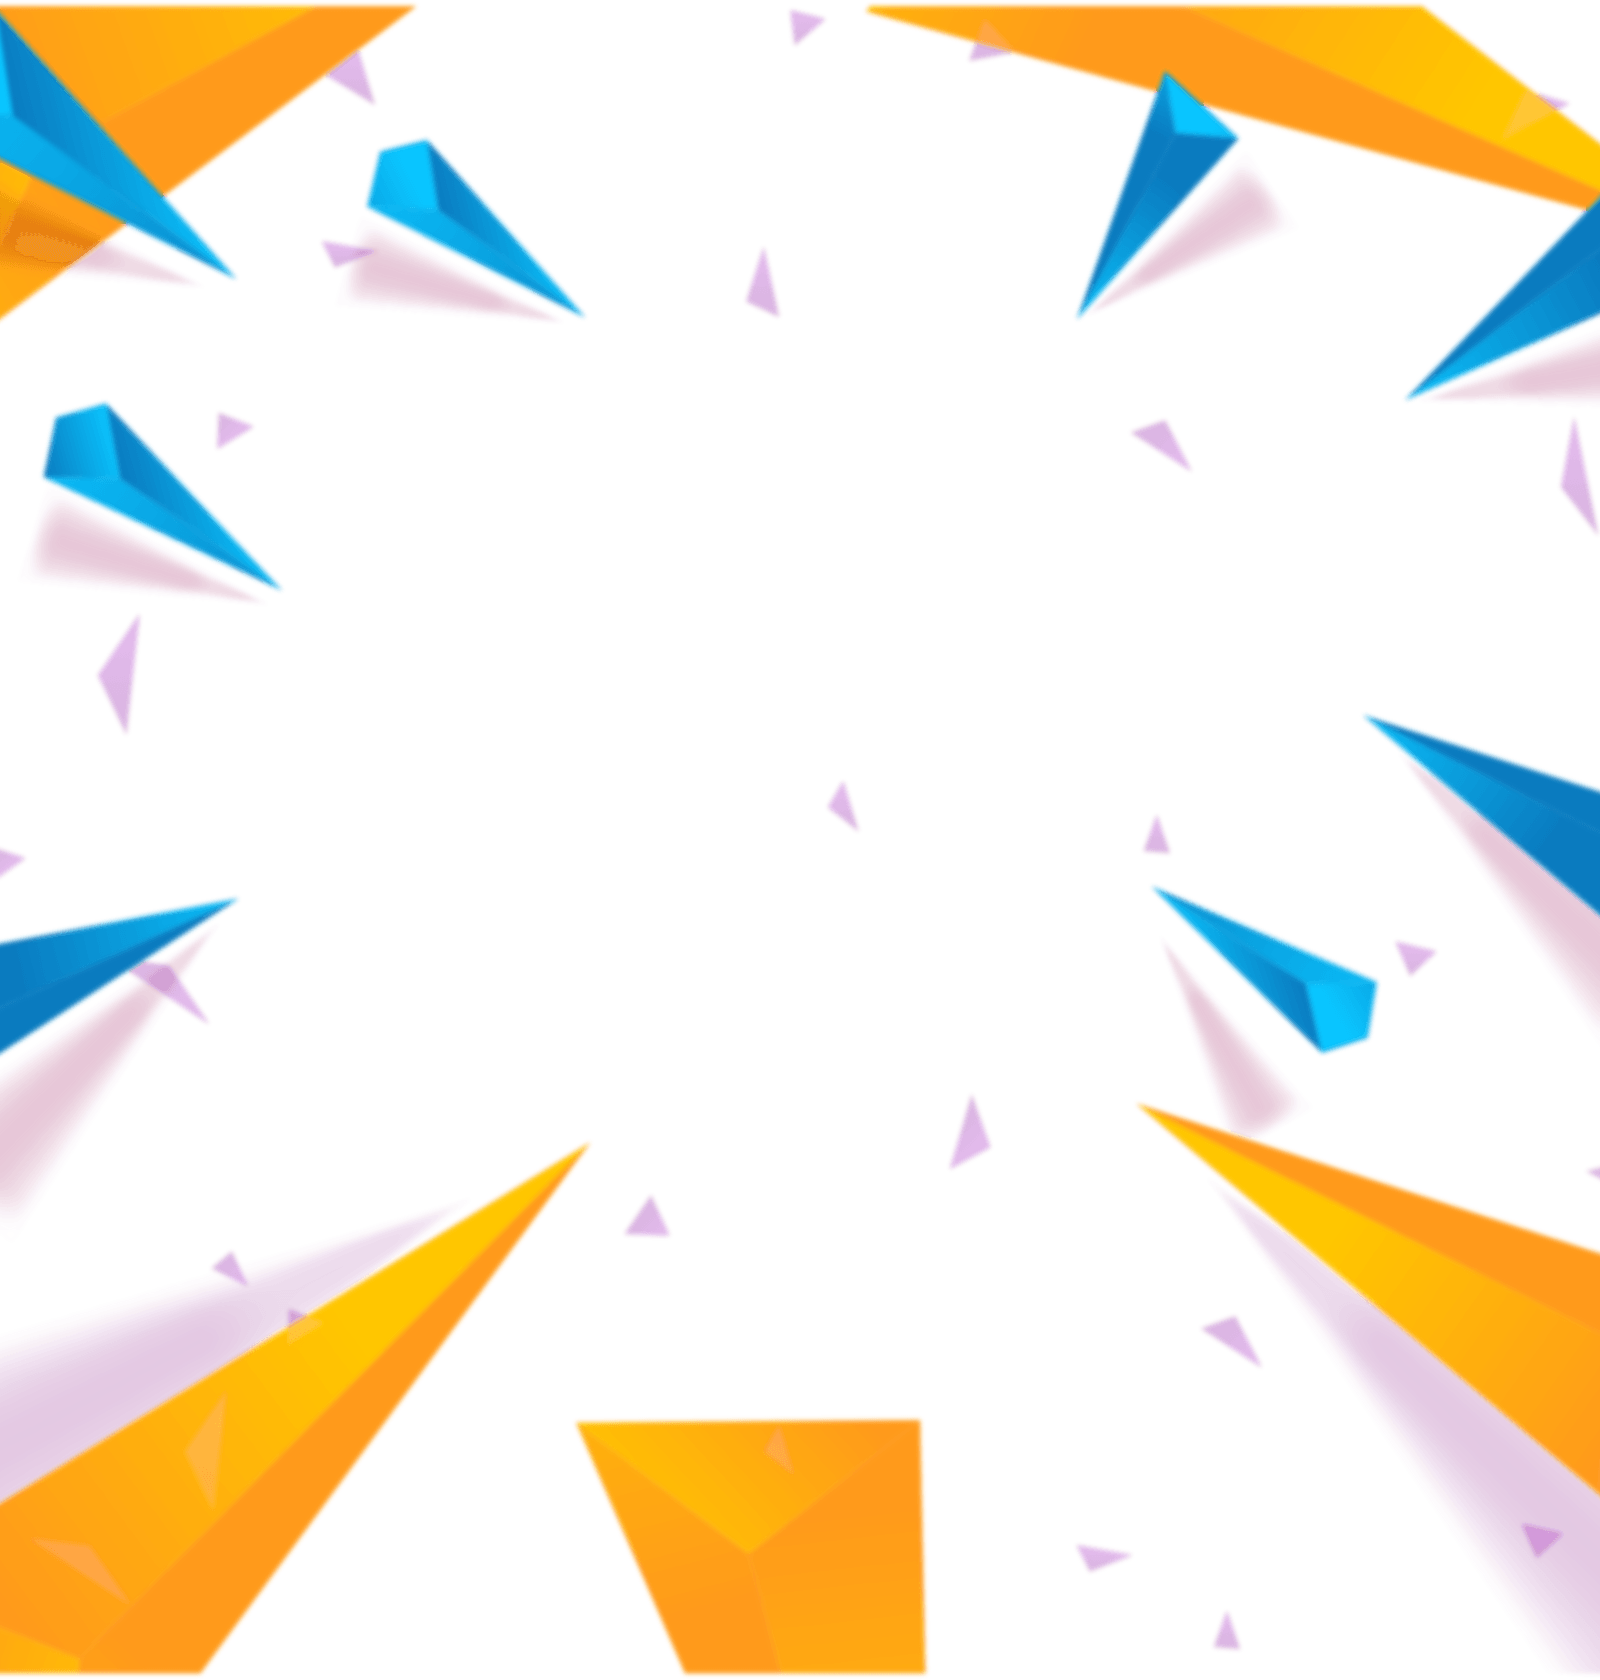
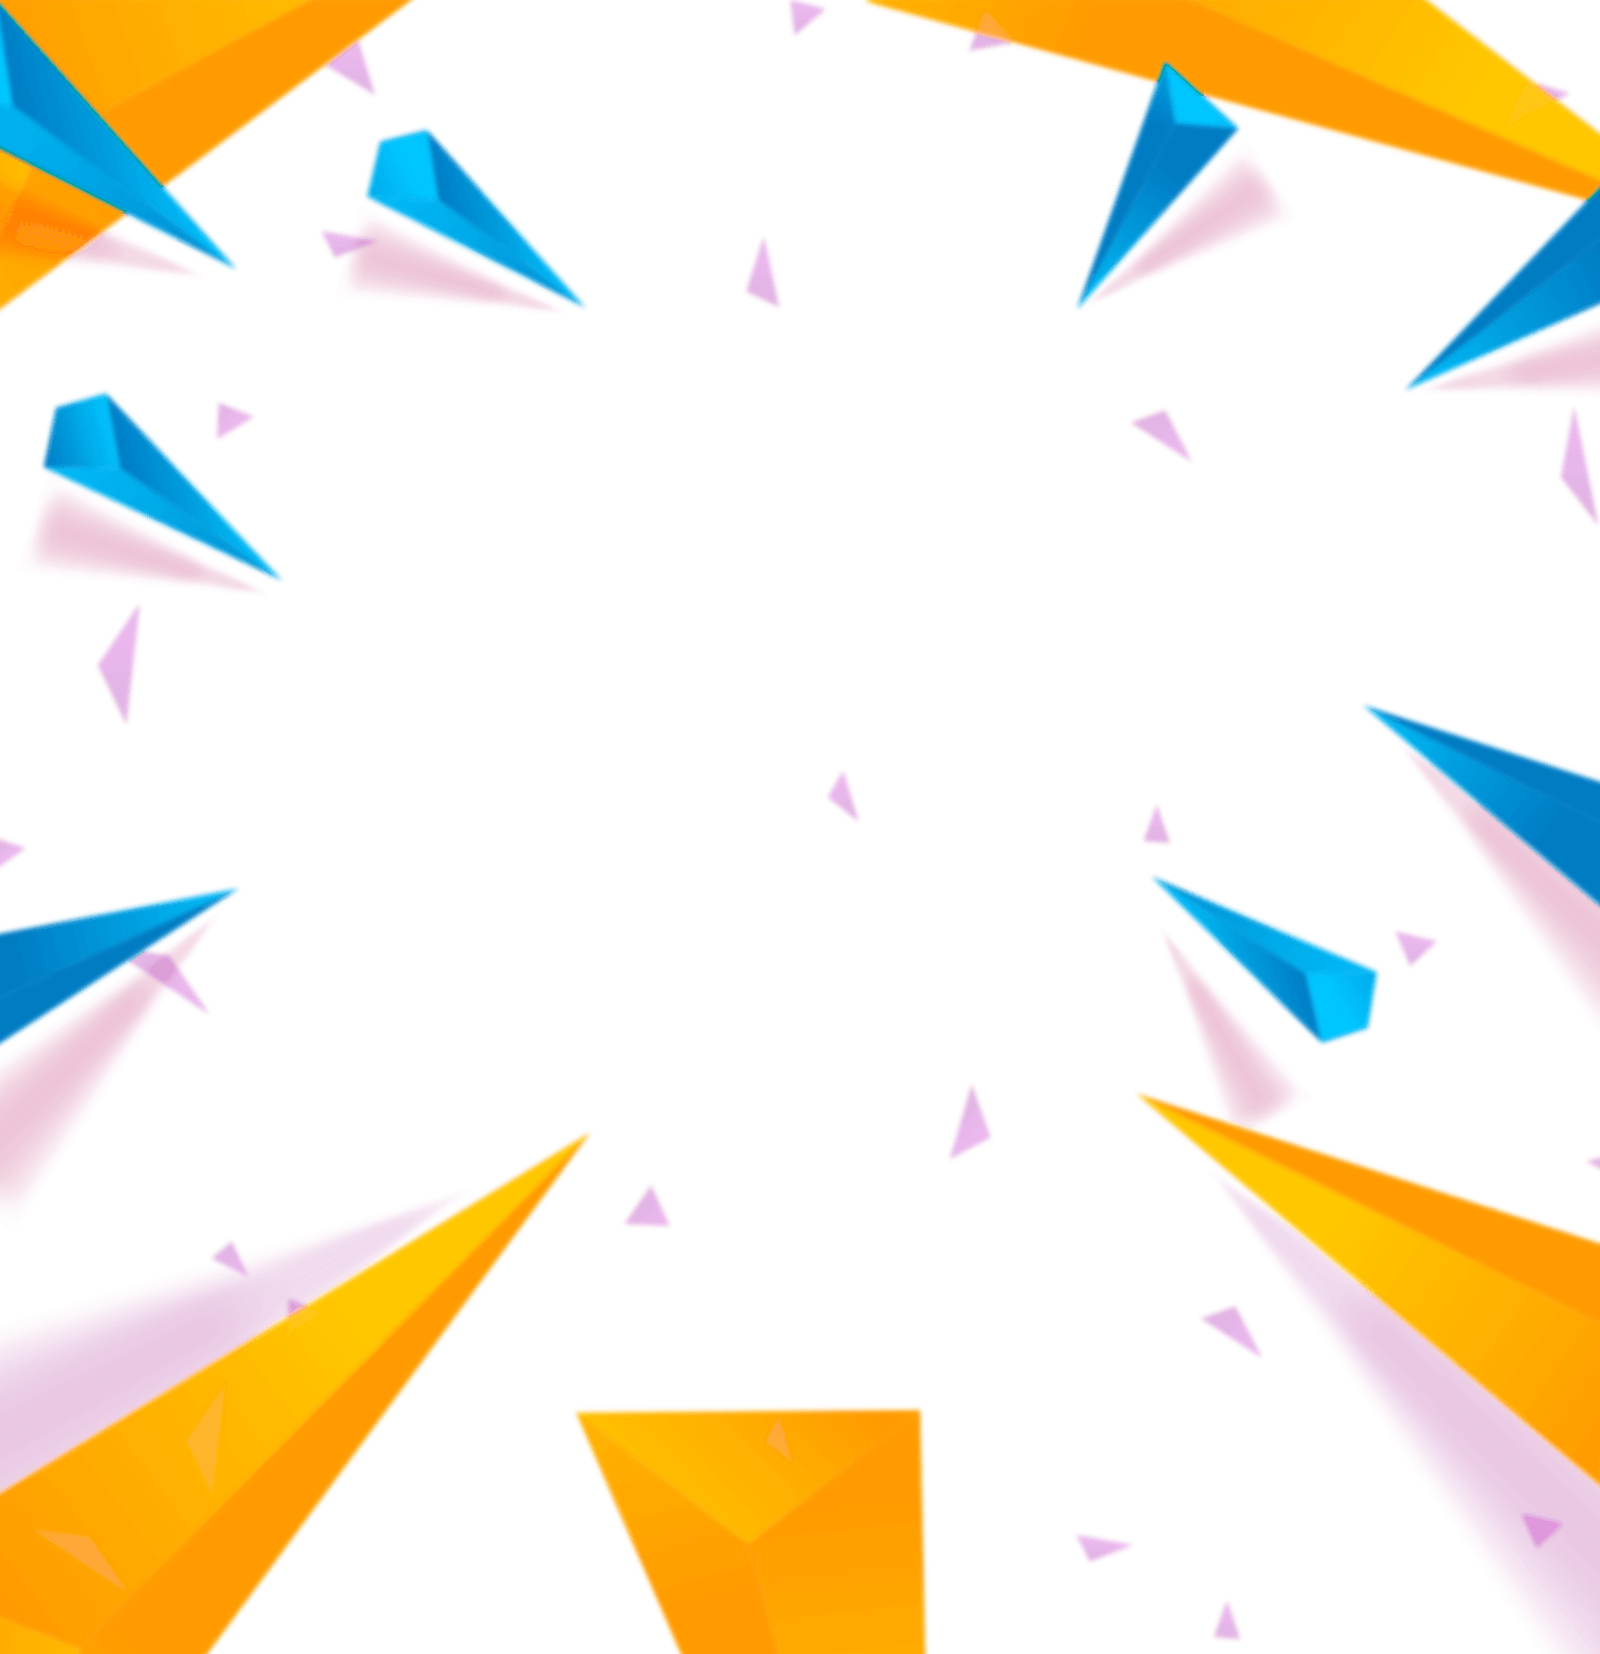
backround images for welcome section

diff --git a/styles/css/index.css b/styles/css/index.css
@@ -1,1 +1,1 @@
-body{margin:0;font-family:'Montserrat', sans-serif;font-weight:500;font-size:10px}h1{margin:0;font-weight:800}p{margin:0;font-size:1.6em}ul{margin:0;padding:0;font-size:1.6em}li{list-style:none;font-size:inherit}a{text-decoration:none;color:inherit;font-size:inherit}.button{color:white;font-weight:900;background:-webkit-gradient(linear, left top, right top, from(#f9236f), to(#f92347));background:linear-gradient(90deg, #f9236f, #f92347);font-size:2em;border:none;padding:10px 25px}.unselectable{-webkit-touch-callout:none;-webkit-user-select:none;-moz-user-select:none;-ms-user-select:none;user-select:none}.main-colored{color:#f9236f}.wrapper{width:1170px;margin-left:auto;margin-right:auto}.header{background-color:rgba(255,255,255,0.5);position:fixed;top:0;width:100%;color:#222}.header__line{height:60px;display:-webkit-box;display:-ms-flexbox;display:flex;-webkit-box-pack:justify;-ms-flex-pack:justify;justify-content:space-between;-webkit-box-align:center;-ms-flex-align:center;align-items:center;position:relative}.header__line:first-child::after{content:"";display:block;height:1px;width:100%;background-color:black;opacity:0.62;position:absolute;bottom:0}.header__info{display:-webkit-box;display:-ms-flexbox;display:flex;-webkit-box-align:center;-ms-flex-align:center;align-items:center;-webkit-column-gap:80px;column-gap:80px}.header__mailto{font-weight:700}.header__switches{font-weight:800;display:-webkit-box;display:-ms-flexbox;display:flex;-webkit-box-align:center;-ms-flex-align:center;align-items:center;-webkit-column-gap:20px;column-gap:20px}.header__lang{cursor:pointer}.header__currency{cursor:pointer}.header__logo{font-weight:800;font-size:2.6em}.header__nav{display:-webkit-box;display:-ms-flexbox;display:flex;-webkit-box-align:center;-ms-flex-align:center;align-items:center;-webkit-column-gap:30px;column-gap:30px}.header__nav-list{display:-webkit-box;display:-ms-flexbox;display:flex;-webkit-box-align:center;-ms-flex-align:center;align-items:center;-webkit-column-gap:20px;column-gap:20px;font-weight:700}.header__icon{width:20px;height:20px;background-color:black;cursor:pointer}.section-welcome{height:calc( 100vh + 120px);background-color:#bae9ff}.section-welcome__wrapper{padding-top:120px;height:calc( 100% - 240px);display:-webkit-box;display:-ms-flexbox;display:flex;-webkit-box-align:center;-ms-flex-align:center;align-items:center}.section-welcome__content{text-align:center;width:680px}.section-welcome__label{text-transform:uppercase;color:#222;margin-bottom:30px}.section-welcome__label-item{display:block;height:-webkit-min-content;height:-moz-min-content;height:min-content;font-size:8em;letter-spacing:-0.05em;line-height:73%}.section-welcome__label-year{padding-top:7px;font-size:3.5em;letter-spacing:6rem;text-indent:6.5rem}.section-welcome__text{color:#494949;line-height:1.5;margin-bottom:50px}
+body{margin:0;font-family:'Montserrat', sans-serif;font-weight:500;font-size:10px}h1{margin:0;font-weight:800}p{margin:0;font-size:1.6em}ul{margin:0;padding:0;font-size:1.6em}li{list-style:none;font-size:inherit}a{text-decoration:none;color:inherit;font-size:inherit}.button{color:white;font-weight:900;background:-webkit-gradient(linear, left top, right top, from(#f9236f), to(#f92347));background:linear-gradient(90deg, #f9236f, #f92347);font-size:2em;border:none;padding:10px 25px}.unselectable{-webkit-touch-callout:none;-webkit-user-select:none;-moz-user-select:none;-ms-user-select:none;user-select:none}.main-colored{color:#f9236f}.wrapper{width:1170px;margin-left:auto;margin-right:auto}.header{background-color:rgba(255,255,255,0.5);position:fixed;top:0;width:100%;color:#222}.header__line{height:60px;display:-webkit-box;display:-ms-flexbox;display:flex;-webkit-box-pack:justify;-ms-flex-pack:justify;justify-content:space-between;-webkit-box-align:center;-ms-flex-align:center;align-items:center;position:relative}.header__line:first-child::after{content:"";display:block;height:1px;width:100%;background-color:black;opacity:0.62;position:absolute;bottom:0}.header__info{display:-webkit-box;display:-ms-flexbox;display:flex;-webkit-box-align:center;-ms-flex-align:center;align-items:center;-webkit-column-gap:80px;column-gap:80px}.header__mailto{font-weight:700}.header__switches{font-weight:800;display:-webkit-box;display:-ms-flexbox;display:flex;-webkit-box-align:center;-ms-flex-align:center;align-items:center;-webkit-column-gap:20px;column-gap:20px}.header__lang{cursor:pointer}.header__currency{cursor:pointer}.header__logo{font-weight:800;font-size:2.6em}.header__nav{display:-webkit-box;display:-ms-flexbox;display:flex;-webkit-box-align:center;-ms-flex-align:center;align-items:center;-webkit-column-gap:30px;column-gap:30px}.header__nav-list{display:-webkit-box;display:-ms-flexbox;display:flex;-webkit-box-align:center;-ms-flex-align:center;align-items:center;-webkit-column-gap:20px;column-gap:20px;font-weight:700}.header__icon{width:20px;height:20px;background-color:black;cursor:pointer}.section-welcome{height:calc( 100vh + 120px);background:url("../../assets/images/face.png") no-repeat right 0 top 120px/contain,top/cover no-repeat url("../../assets/images/particles.png"),#bae9ff}.section-welcome__wrapper{padding-top:120px;height:calc( 100% - 240px);display:-webkit-box;display:-ms-flexbox;display:flex;-webkit-box-align:center;-ms-flex-align:center;align-items:center}.section-welcome__content{text-align:center;width:680px}.section-welcome__label{text-transform:uppercase;color:#222;margin-bottom:30px}.section-welcome__label-item{display:block;height:-webkit-min-content;height:-moz-min-content;height:min-content;font-size:8em;letter-spacing:-0.05em;line-height:73%}.section-welcome__label-year{padding-top:7px;font-size:3.5em;letter-spacing:6rem;text-indent:6.5rem}.section-welcome__text{color:#494949;line-height:1.5;margin-bottom:50px}

diff --git a/styles/sass/index.sass b/styles/sass/index.sass
@@ -112,7 +112,8 @@ a
 
 .section-welcome
   height: calc( 100vh + 120px )
-  background-color: $counter-color
+  background: url("../../assets/images/face.png") no-repeat right 0 top 120px / contain, top / cover no-repeat url("../../assets/images/particles.png"), $counter-color
+  // background: url("../../assets/images/particles.png") no-repeat right 48px top 53px, $counter-color
   &__wrapper
     padding-top: 120px
     height: calc( 100% - 240px )
